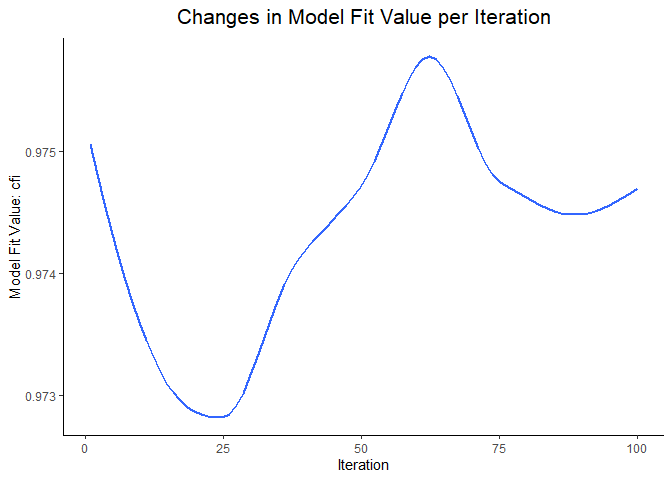
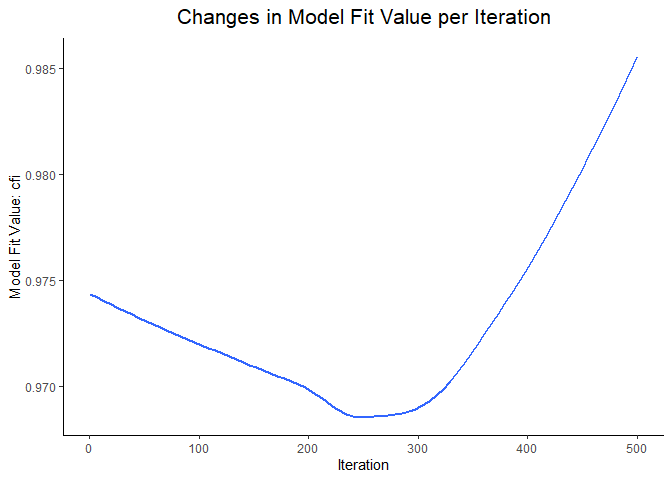
Adjusted SA example to take longer than 1 minute.

diff --git a/README.md b/README.md
@@ -163,7 +163,7 @@ plot(abilityShortForm) # the plots for class "antcolony"
 
 A similar example can be found in the `antcolony.mplus` function, but
 requires you to have a valid Mplus installation on the computer. It took
-a total of 1.76 minutes to run this example.
+a total of 1.86 minutes to run this example.
 
 ### Tabu Search Algorithm
 
@@ -374,7 +374,7 @@ lavaan::summary(Tabu_example$best.mod)
 ##     .Item12            0.669    0.040   16.720    0.000
 ```
 
-It took a total of 2.03 minutes to run this example.
+It took a total of 2.1 minutes to run this example.
 
 The next Tabu example demonstrates how to use it to find a short form of
 a prespecified length with the same data.
@@ -526,7 +526,7 @@ plot(tabuShort)
 
 ![](README-Tabu%20short%20form-1.png)<!-- -->
 
-It took a total of 1.64 minutes to run this example.
+It took a total of 1.75 minutes to run this example.
 
 ### Simulated Annealing
 
@@ -586,7 +586,7 @@ lavaan.model.specs <-
 # perform the SA algorithm
 SA_example <- 
   simulatedAnnealing(initialModel = annealModel, originalData = annealData, 
-                     maxSteps = 100, fitStatistic = 'cfi', maximize = TRUE, 
+                     maxSteps = 500, fitStatistic = 'cfi', maximize = TRUE, 
                      temperature = "logistic", 
                      items = list(paste0("Item", 1:12),
                                   paste0("Item", 13:24),
@@ -602,7 +602,7 @@ SA_example <-
 ##  Trait4 =~ Item46 + Item38 + Item39 + Item41 + Item48 + Item43
 ##  Using the short form randomNeighbor function.
 ##  Finished initializing short form options.
-##   Current Progress:  |                                                                              |=                                                                     |   1%  |                                                                              |                                                                      |   0%  |                                                                              |=                                                                     |   1%  |                                                                              |=                                                                     |   2%  |                                                                              |==                                                                    |   3%  |                                                                              |===                                                                   |   4%  |                                                                              |====                                                                  |   5%  |                                                                              |====                                                                  |   6%  |                                                                              |=====                                                                 |   7%  |                                                                              |======                                                                |   8%  |                                                                              |======                                                                |   9%  |                                                                              |=======                                                               |  10%  |                                                                              |========                                                              |  11%  |                                                                              |========                                                              |  12%  |                                                                              |=========                                                             |  13%  |                                                                              |==========                                                            |  14%  |                                                                              |===========                                                           |  15%  |                                                                              |===========                                                           |  16%  |                                                                              |============                                                          |  17%  |                                                                              |=============                                                         |  18%  |                                                                              |=============                                                         |  19%  |                                                                              |==============                                                        |  20%  |                                                                              |===============                                                       |  21%  |                                                                              |================                                                      |  22%  |                                                                              |================                                                      |  23%  |                                                                              |=================                                                     |  24%  |                                                                              |==================                                                    |  25%  |                                                                              |==================                                                    |  26%  |                                                                              |===================                                                   |  27%  |                                                                              |====================                                                  |  28%  |                                                                              |=====================                                                 |  29%  |                                                                              |=====================                                                 |  30%  |                                                                              |======================                                                |  31%  |                                                                              |=======================                                               |  32%  |                                                                              |=======================                                               |  33%  |                                                                              |========================                                              |  34%  |                                                                              |=========================                                             |  35%  |                                                                              |=========================                                             |  36%  |                                                                              |==========================                                            |  37%  |                                                                              |===========================                                           |  38%  |                                                                              |============================                                          |  39%  |                                                                              |============================                                          |  40%  |                                                                              |=============================                                         |  41%  |                                                                              |==============================                                        |  42%  |                                                                              |==============================                                        |  43%  |                                                                              |===============================                                       |  44%  |                                                                              |================================                                      |  45%  |                                                                              |=================================                                     |  46%  |                                                                              |=================================                                     |  47%  |                                                                              |==================================                                    |  48%  |                                                                              |===================================                                   |  49%  |                                                                              |===================================                                   |  51%  |                                                                              |====================================                                  |  52%  |                                                                              |=====================================                                 |  53%  |                                                                              |=====================================                                 |  54%  |                                                                              |======================================                                |  55%  |                                                                              |=======================================                               |  56%  |                                                                              |========================================                              |  57%  |                                                                              |========================================                              |  58%  |                                                                              |=========================================                             |  59%  |                                                                              |==========================================                            |  60%  |                                                                              |==========================================                            |  61%  |                                                                              |===========================================                           |  62%  |                                                                              |============================================                          |  63%  |                                                                              |=============================================                         |  64%  |                                                                              |=============================================                         |  65%  |                                                                              |==============================================                        |  66%  |                                                                              |===============================================                       |  67%  |                                                                              |===============================================                       |  68%  |                                                                              |================================================                      |  69%  |                                                                              |=================================================                     |  70%  |                                                                              |=================================================                     |  71%  |                                                                              |==================================================                    |  72%  |                                                                              |===================================================                   |  73%  |                                                                              |====================================================                  |  74%  |                                                                              |====================================================                  |  75%  |                                                                              |=====================================================                 |  76%  |                                                                              |======================================================                |  77%  |                                                                              |======================================================                |  78%  |                                                                              |=======================================================               |  79%  |                                                                              |========================================================              |  80%  |                                                                              |=========================================================             |  81%  |                                                                              |=========================================================             |  82%  |                                                                              |==========================================================            |  83%  |                                                                              |===========================================================           |  84%  |                                                                              |===========================================================           |  85%  |                                                                              |============================================================          |  86%  |                                                                              |=============================================================         |  87%  |                                                                              |==============================================================        |  88%  |                                                                              |==============================================================        |  89%  |                                                                              |===============================================================       |  90%  |                                                                              |================================================================      |  91%  |                                                                              |================================================================      |  92%  |                                                                              |=================================================================     |  93%  |                                                                              |==================================================================    |  94%  |                                                                              |==================================================================    |  95%  |                                                                              |===================================================================   |  96%  |                                                                              |====================================================================  |  97%  |                                                                              |===================================================================== |  98%  |                                                                              |===================================================================== |  99%  |                                                                              |======================================================================| 100%
+##   Current Progress:  |                                                                              |                                                                      |   0%  |                                                                              |                                                                      |   1%  |                                                                              |=                                                                     |   1%  |                                                                              |=                                                                     |   2%  |                                                                              |==                                                                    |   2%  |                                                                              |==                                                                    |   3%  |                                                                              |===                                                                   |   4%  |                                                                              |===                                                                   |   5%  |                                                                              |====                                                                  |   5%  |                                                                              |====                                                                  |   6%  |                                                                              |=====                                                                 |   7%  |                                                                              |=====                                                                 |   8%  |                                                                              |======                                                                |   8%  |                                                                              |======                                                                |   9%  |                                                                              |=======                                                               |   9%  |                                                                              |=======                                                               |  10%  |                                                                              |=======                                                               |  11%  |                                                                              |========                                                              |  11%  |                                                                              |========                                                              |  12%  |                                                                              |=========                                                             |  12%  |                                                                              |=========                                                             |  13%  |                                                                              |==========                                                            |  14%  |                                                                              |==========                                                            |  15%  |                                                                              |===========                                                           |  15%  |                                                                              |===========                                                           |  16%  |                                                                              |============                                                          |  16%  |                                                                              |============                                                          |  17%  |                                                                              |============                                                          |  18%  |                                                                              |=============                                                         |  18%  |                                                                              |=============                                                         |  19%  |                                                                              |==============                                                        |  19%  |                                                                              |==============                                                        |  20%  |                                                                              |==============                                                        |  21%  |                                                                              |===============                                                       |  21%  |                                                                              |===============                                                       |  22%  |                                                                              |================                                                      |  22%  |                                                                              |================                                                      |  23%  |                                                                              |=================                                                     |  24%  |                                                                              |=================                                                     |  25%  |                                                                              |==================                                                    |  25%  |                                                                              |==================                                                    |  26%  |                                                                              |===================                                                   |  26%  |                                                                              |===================                                                   |  27%  |                                                                              |===================                                                   |  28%  |                                                                              |====================                                                  |  28%  |                                                                              |====================                                                  |  29%  |                                                                              |=====================                                                 |  29%  |                                                                              |=====================                                                 |  30%  |                                                                              |=====================                                                 |  31%  |                                                                              |======================                                                |  31%  |                                                                              |======================                                                |  32%  |                                                                              |=======================                                               |  32%  |                                                                              |=======================                                               |  33%  |                                                                              |========================                                              |  34%  |                                                                              |========================                                              |  35%  |                                                                              |=========================                                             |  35%  |                                                                              |=========================                                             |  36%  |                                                                              |==========================                                            |  36%  |                                                                              |==========================                                            |  37%  |                                                                              |==========================                                            |  38%  |                                                                              |===========================                                           |  38%  |                                                                              |===========================                                           |  39%  |                                                                              |============================                                          |  39%  |                                                                              |============================                                          |  40%  |                                                                              |============================                                          |  41%  |                                                                              |=============================                                         |  41%  |                                                                              |=============================                                         |  42%  |                                                                              |==============================                                        |  42%  |                                                                              |==============================                                        |  43%  |                                                                              |===============================                                       |  44%  |                                                                              |===============================                                       |  45%  |                                                                              |================================                                      |  45%  |                                                                              |================================                                      |  46%  |                                                                              |=================================                                     |  46%  |                                                                              |=================================                                     |  47%  |                                                                              |=================================                                     |  48%  |                                                                              |==================================                                    |  48%  |                                                                              |==================================                                    |  49%  |                                                                              |===================================                                   |  49%  |                                                                              |===================================                                   |  50%  |                                                                              |===================================                                   |  51%  |                                                                              |====================================                                  |  51%  |                                                                              |====================================                                  |  52%  |                                                                              |=====================================                                 |  52%  |                                                                              |=====================================                                 |  53%  |                                                                              |=====================================                                 |  54%  |                                                                              |======================================                                |  54%  |                                                                              |======================================                                |  55%  |                                                                              |=======================================                               |  55%  |                                                                              |=======================================                               |  56%  |                                                                              |========================================                              |  57%  |                                                                              |========================================                              |  58%  |                                                                              |=========================================                             |  58%  |                                                                              |=========================================                             |  59%  |                                                                              |==========================================                            |  59%  |                                                                              |==========================================                            |  60%  |                                                                              |==========================================                            |  61%  |                                                                              |===========================================                           |  61%  |                                                                              |===========================================                           |  62%  |                                                                              |============================================                          |  62%  |                                                                              |============================================                          |  63%  |                                                                              |============================================                          |  64%  |                                                                              |=============================================                         |  64%  |                                                                              |=============================================                         |  65%  |                                                                              |==============================================                        |  65%  |                                                                              |==============================================                        |  66%  |                                                                              |===============================================                       |  67%  |                                                                              |===============================================                       |  68%  |                                                                              |================================================                      |  68%  |                                                                              |================================================                      |  69%  |                                                                              |=================================================                     |  69%  |                                                                              |=================================================                     |  70%  |                                                                              |=================================================                     |  71%  |                                                                              |==================================================                    |  71%  |                                                                              |==================================================                    |  72%  |                                                                              |===================================================                   |  72%  |                                                                              |===================================================                   |  73%  |                                                                              |===================================================                   |  74%  |                                                                              |====================================================                  |  74%  |                                                                              |====================================================                  |  75%  |                                                                              |=====================================================                 |  75%  |                                                                              |=====================================================                 |  76%  |                                                                              |======================================================                |  77%  |                                                                              |======================================================                |  78%  |                                                                              |=======================================================               |  78%  |                                                                              |=======================================================               |  79%  |                                                                              |========================================================              |  79%  |                                                                              |========================================================              |  80%  |                                                                              |========================================================              |  81%  |                                                                              |=========================================================             |  81%  |                                                                              |=========================================================             |  82%  |                                                                              |==========================================================            |  82%  |                                                                              |==========================================================            |  83%  |                                                                              |==========================================================            |  84%  |                                                                              |===========================================================           |  84%  |                                                                              |===========================================================           |  85%  |                                                                              |============================================================          |  85%  |                                                                              |============================================================          |  86%  |                                                                              |=============================================================         |  87%  |                                                                              |=============================================================         |  88%  |                                                                              |==============================================================        |  88%  |                                                                              |==============================================================        |  89%  |                                                                              |===============================================================       |  89%  |                                                                              |===============================================================       |  90%  |                                                                              |===============================================================       |  91%  |                                                                              |================================================================      |  91%  |                                                                              |================================================================      |  92%  |                                                                              |=================================================================     |  92%  |                                                                              |=================================================================     |  93%  |                                                                              |==================================================================    |  94%  |                                                                              |==================================================================    |  95%  |                                                                              |===================================================================   |  95%  |                                                                              |===================================================================   |  96%  |                                                                              |====================================================================  |  97%  |                                                                              |====================================================================  |  98%  |                                                                              |===================================================================== |  98%  |                                                                              |===================================================================== |  99%  |                                                                              |======================================================================|  99%  |                                                                              |======================================================================| 100%
 lavaan::summary(SA_example$bestModel)
 ##             Length Class  Mode     
 ##  bestModel  1      lavaan S4       
@@ -612,5 +612,5 @@ plot(SA_example) # plot showing how the fit value changes at each step
 
 ![](README-Simulated%20Annealing%20example-1.png)<!-- -->
 
-It took a total of 13.58 minutes to run the SA example, and a total of
-5.66 minutes to run all three together.
+It took a total of 1.05 minutes to run the SA example, and a total of
+6.76 minutes to run all three together.
